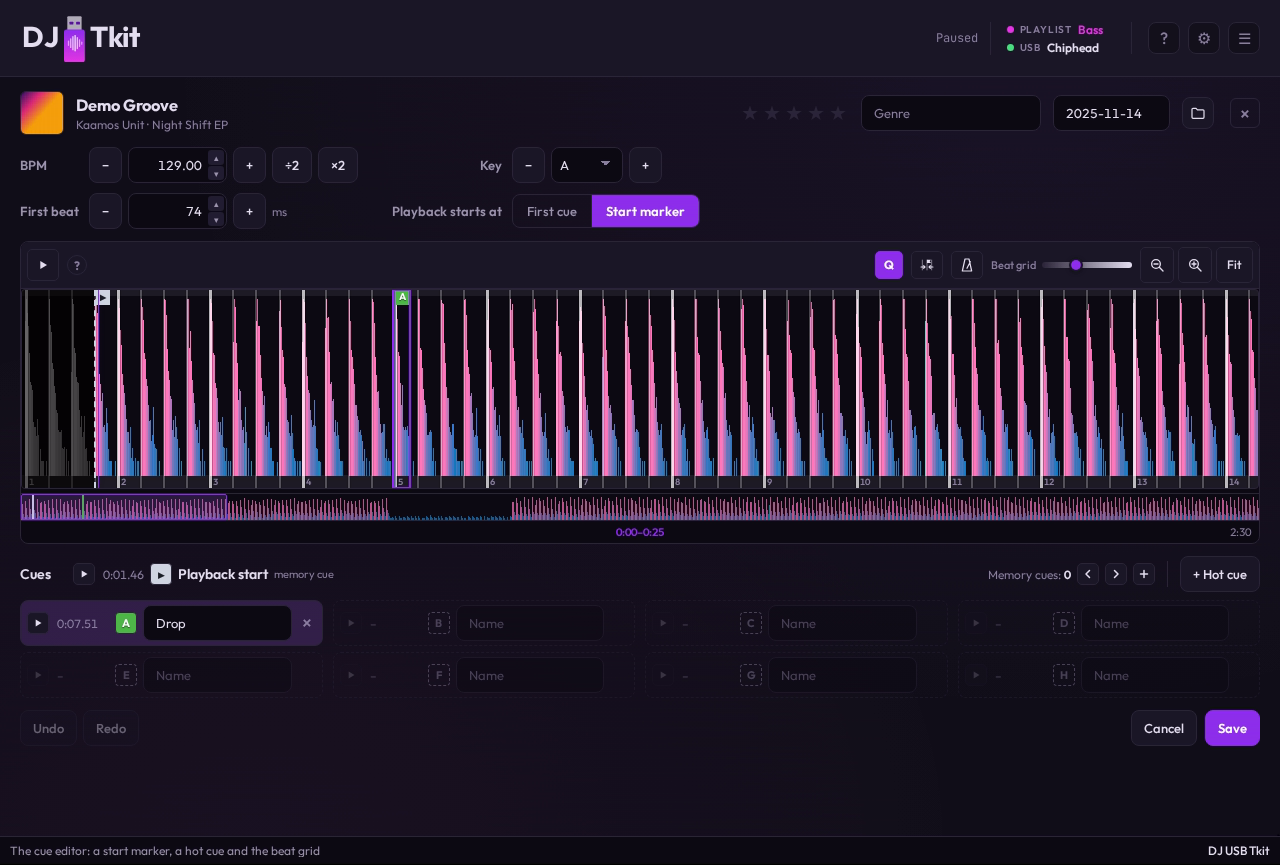
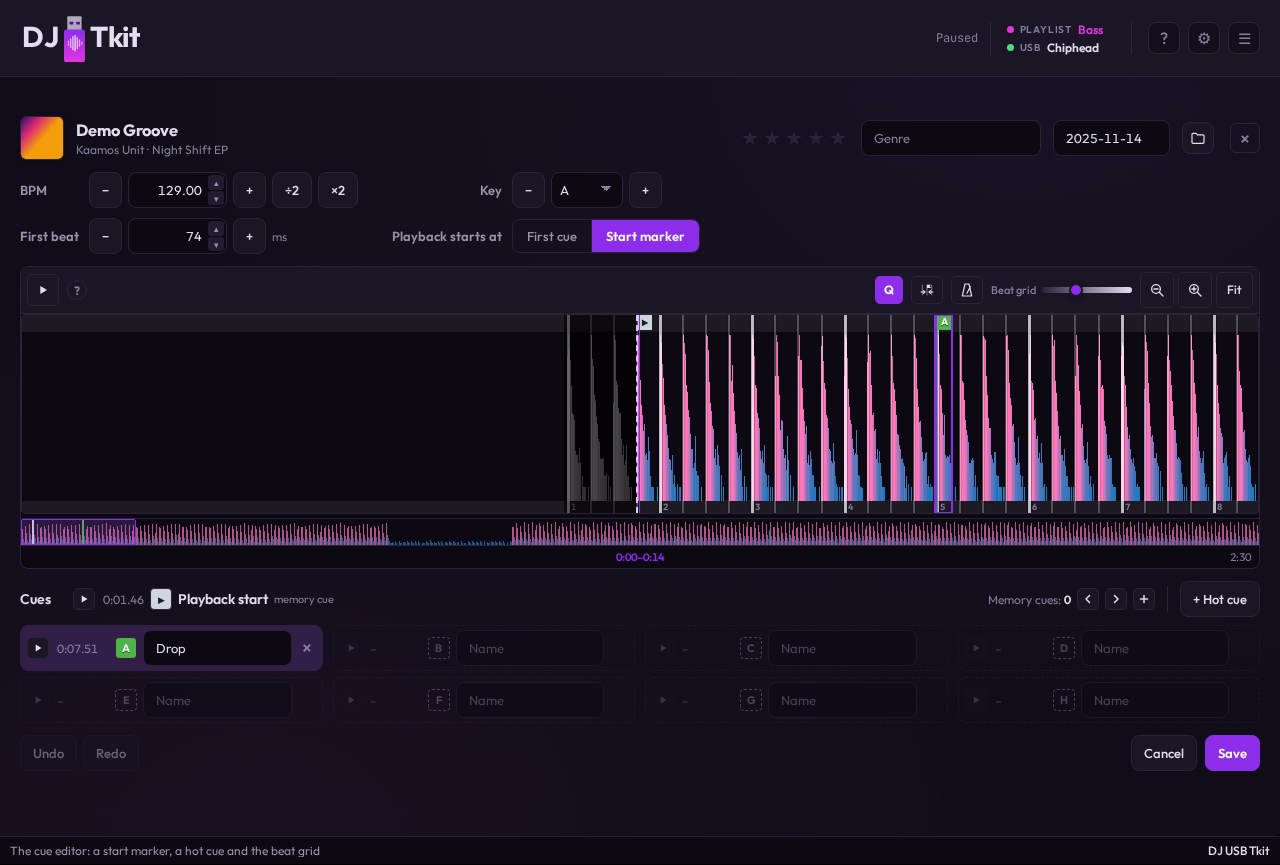
update docs and assets

diff --git a/vanilla-ui/scripts/doc-media/page_init.js b/vanilla-ui/scripts/doc-media/page_init.js
@@ -262,6 +262,9 @@
             return ok({ values: {}, nodeAvailable: false, essentiaInstalled: false });
           case "get_library_sources":
             return ok(librarySources);
+          case "set_external_library_enabled":
+            librarySources[`${r.library}DbEnabled`] = !!r.enabled;
+            return ok(librarySources);
           case "set_theme_background":
             return null;
           case "allow_asset_paths":
@@ -325,8 +328,15 @@
               ...listTotals(items),
             });
           }
-          case "get_tracks_by_ids_with_previews":
-            return ok({ items: tracks.filter((t) => (r.trackIds || []).includes(t.id)) });
+          case "get_selection_duration": {
+            // The ticked tracks' total time, as the backend sums it.
+            const picked = tracks.filter((t) => (r.trackIds || []).includes(t.id));
+            return ok({
+              totalDurationMs: sumMs(picked),
+              durationUnknownCount: picked.filter((t) => !(Number(t.durationMs) > 0)).length,
+              trackCount: picked.length,
+            });
+          }
           case "resolve_track_identity":
             return ok({ trackId: r.trackId || detail.track.id, resolvedBy: "self", materialized: false });
           case "get_track_detail":

diff --git a/docs/CUE_EDITOR.md b/docs/CUE_EDITOR.md
@@ -68,11 +68,14 @@ on open.
   numbers sit in the strip below (every bar when zoomed in, every 2nd/4th/… bar
   when zoomed out so they never crowd). Lines closer than 8 px would hatch over
   the waveform, so ordinary beat lines are left out until zooming in spreads
-  them that far apart (the opening 60-bar view shows bar lines only), and bar
-  lines thin to every 2nd/4th/… bar the same way when zoomed far out.
+  them that far apart (the opening 60-bar view shows bar lines only). Bar lines
+  keep a gap of at least eight of their own widths: when bars are closer than
+  that they are drawn at beat-line width, and thin to every 2nd/4th/… bar when
+  even those would crowd, so a thick grid never covers the waveform.
 - **Beat grid slider**: how strongly and how thick the grid shows, 0–100
   (default 35, remembered). It mostly sets the ordinary beats (0.5–2 px wide):
-  bar starts (2–4 px) always stay visible.
+  bar starts (2–4 px, once zoomed in far enough to have room) always stay
+  visible.
 - **Greyed-out start**: everything before where the CDJ will start playback
   (the playback-start marker, else the first cue) is greyed out. With no cues
   nothing is greyed: the CDJ starts at the first audio.

diff --git a/docs/PLAYLISTS_PLAYBACK.md b/docs/PLAYLISTS_PLAYBACK.md
@@ -26,7 +26,9 @@ becomes an ordinary local playlist; see `docs/EXTERNAL_LIBRARIES.md`.
 ### Adding selected tracks
 
 Every track list has a checkbox on each row and a select-all box in its header. The selection
-bar beside the search shows what is selected and what can be done with it:
+bar beside the search shows what is selected and what can be done with it. Next to the count it
+shows the selected tracks' total time, with a "+" when some of them have no length yet (not yet
+analyzed); hover it to see how many.
 
 - **+ Add to** and the active playlist's name adds the selection to that playlist (Library, USB
   playlists and USB history). Without an active playlist the button is not shown.
